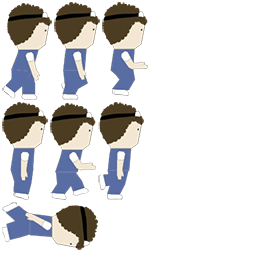
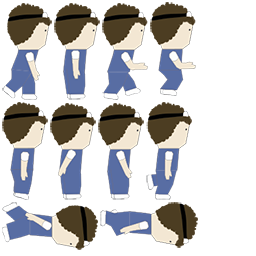
added eli idle animation

diff --git a/Classes/Eli.cpp b/Classes/Eli.cpp
@@ -92,6 +92,17 @@ void Eli::createAnimations() {
 	animation->setDelayPerUnit(0.15f);
 	_jump = CCSequence::create(CCAnimate::create(animation), NULL);
 	_jump->retain();
+
+	animation = CCAnimation::create();
+	for (int i = 1; i <= 4; i++) {
+		name = CCString::createWithFormat("i%04d.png", i);
+		frame = CCSpriteFrameCache::sharedSpriteFrameCache()->spriteFrameByName(name->getCString());
+		animation->addSpriteFrame(frame);
+	}
+	animation->setDelayPerUnit(0.3f);
+	animation->setLoops(-1);
+	_idle = CCSequence::create(CCAnimate::create(animation), NULL);
+	_idle->retain();
 }
 
 void Eli::startRunAnimation() {
@@ -102,6 +113,11 @@ void Eli::startRunAnimation() {
 void Eli::jumpAnimation() {
 	this->stopAllActions();
 	this->runAction(_jump);
+}
+
+void Eli::idleAnimation() {
+	this->stopAllActions();
+	this->runAction(_idle);
 }
 
 void Eli::jump() {

diff --git a/Classes/Game.cpp b/Classes/Game.cpp
@@ -142,6 +142,7 @@ bool Game::init() {
     this->addChild(gear);
     this->addChild(eli, 10);
     this->setViewPointCenter(eli->getPosition());
+    eli->idleAnimation();
 
 	return true;
 }
@@ -440,6 +441,7 @@ void Game::switchMode() {
 	} else if (_state == kRunMode) {
 		_state = kEditMode;
 		this->resetEli();
+		eli->idleAnimation();
 	}
 }
 

diff --git a/Classes/Eli.h b/Classes/Eli.h
@@ -27,6 +27,7 @@ class Eli : public CCSprite {
 	int _soundfxToggle;
 	CCAction * _run;
 	CCAction * _jump;
+	CCAction * _idle;
 
 public:
 
@@ -47,6 +48,7 @@ public:
 	void createAnimations();
 	void startRunAnimation();
 	void jumpAnimation();
+	void idleAnimation();
 	void reset();
 	void changeDirection();
 	void jump();
